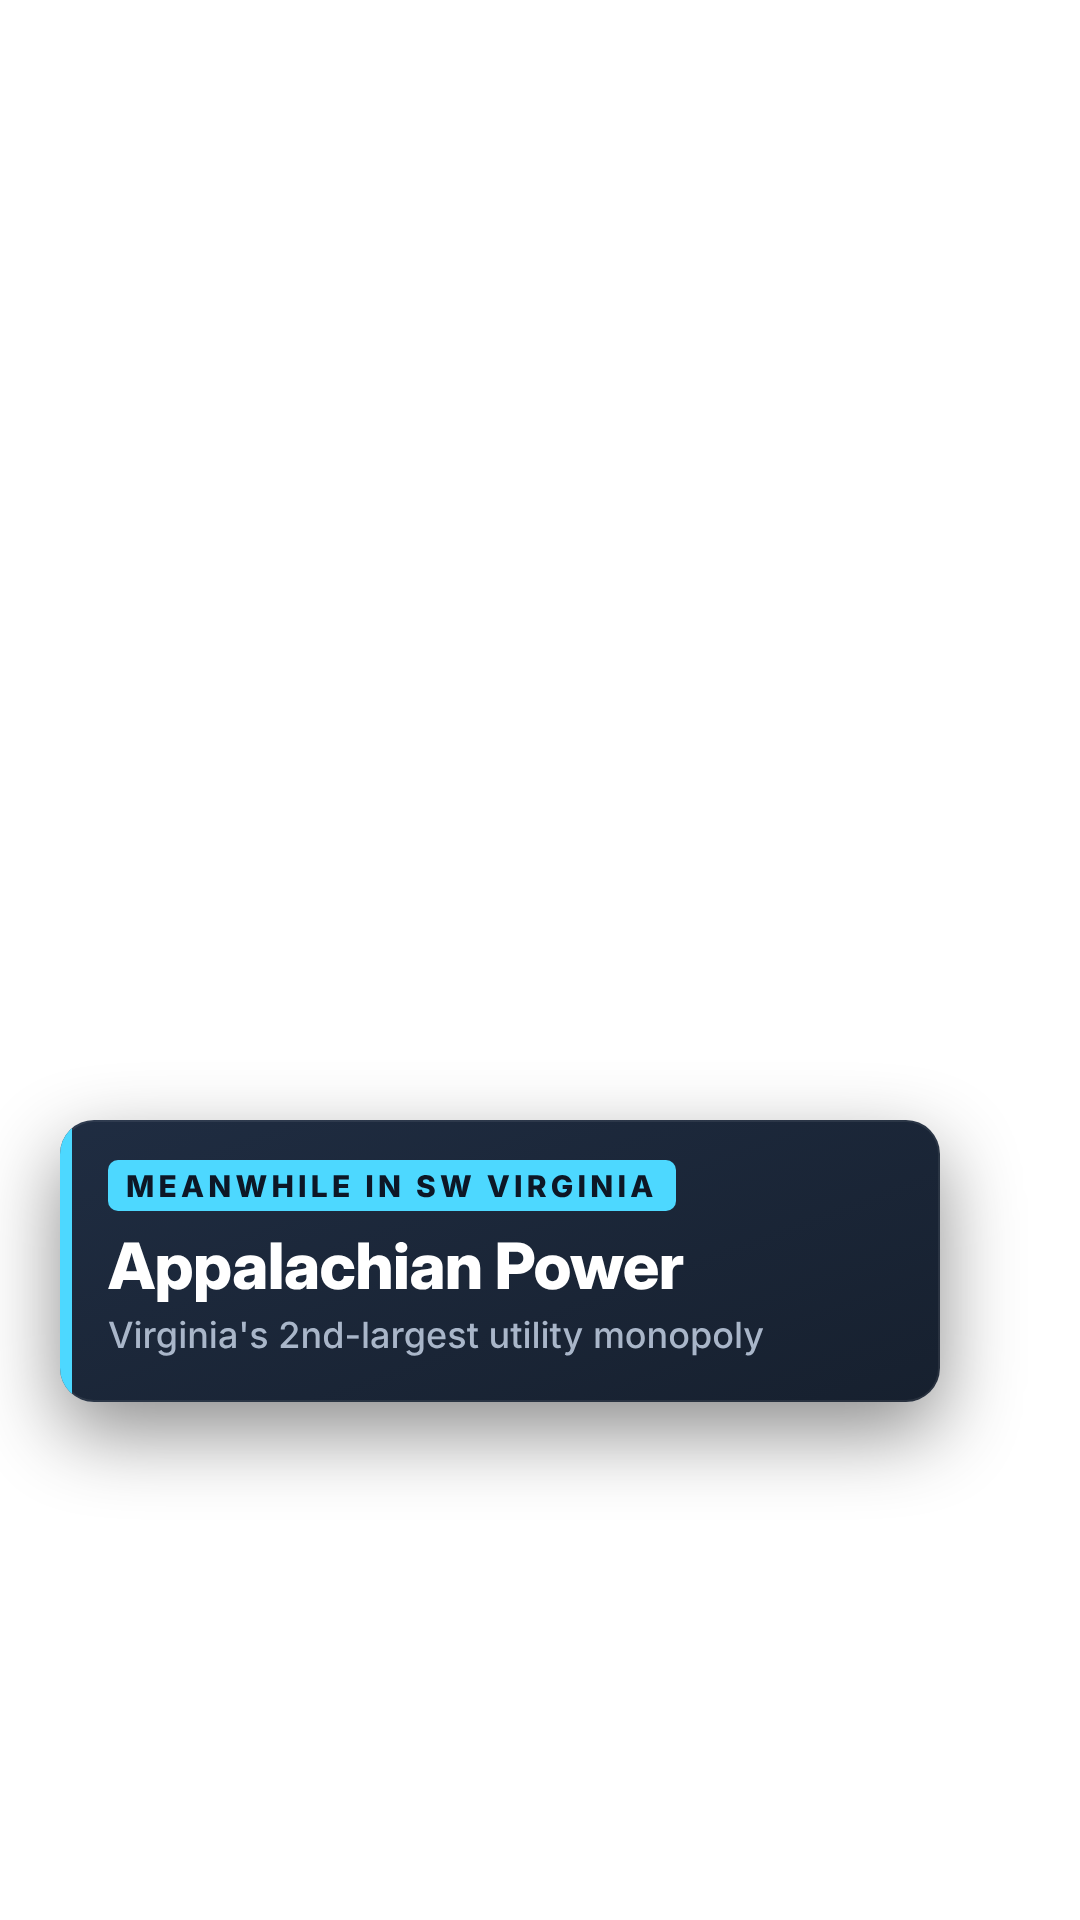
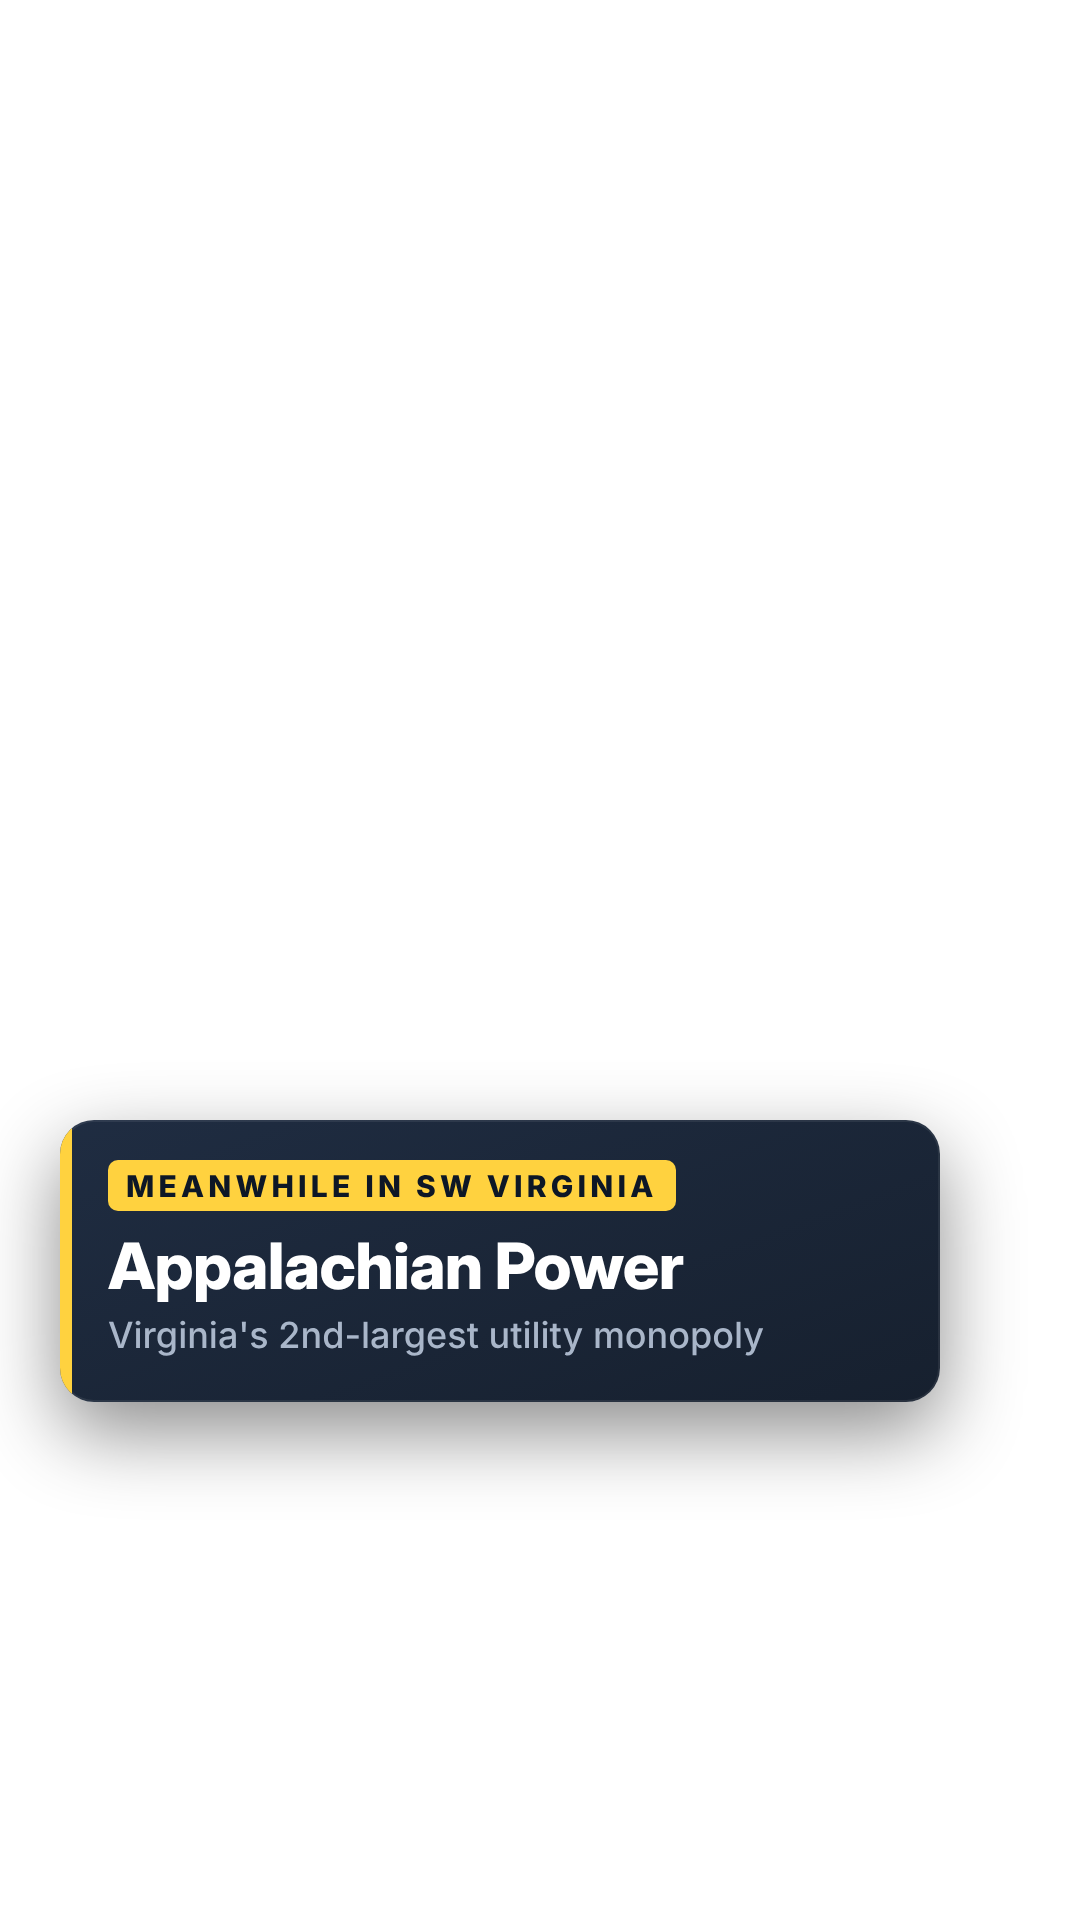
Shorten APCo bill graphic headline; refresh PNG stills
Claude-Session: https://claude.ai/code/session_01HXy3J48iQGiNniMEYPeE12

Changed region(s): [[0.0306, 0.5938, 0.6417, 0.7188]]

diff --git a/apco-rate-video/graphics/scenes.html b/apco-rate-video/graphics/scenes.html
@@ -133,7 +133,7 @@ const SCENES = [
       </div>`));
       this.b = st.appendChild(h(`<div class="card" style="top:1120px">
         <div class="kicker">APCo customers</div>
-        <div class="h2">Your monthly bill could go up</div>
+        <div class="h2">Your bill could go up</div>
         <div class="h1 volt" style="font-size:190px;line-height:1;margin:18px 0 6px" id="m">+$0.00</div>
         <div class="h3">more per month</div>
         <div class="sub" style="font-size:28px;margin-top:22px;line-height:1.35">Source: Appalachian Power's rate filing, Va. SCC Case PUR-2026-00044 (typical home, 1,000 kWh/mo)</div>
